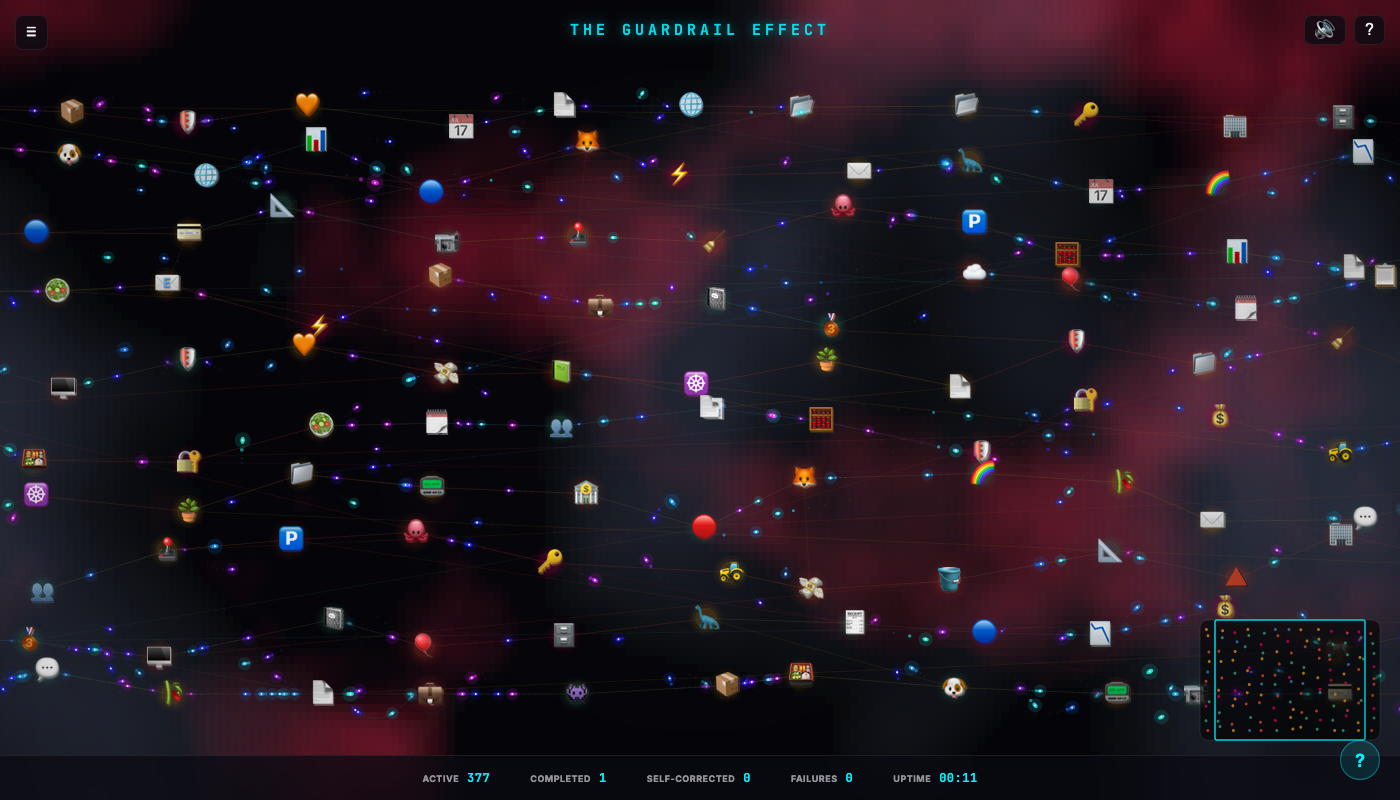
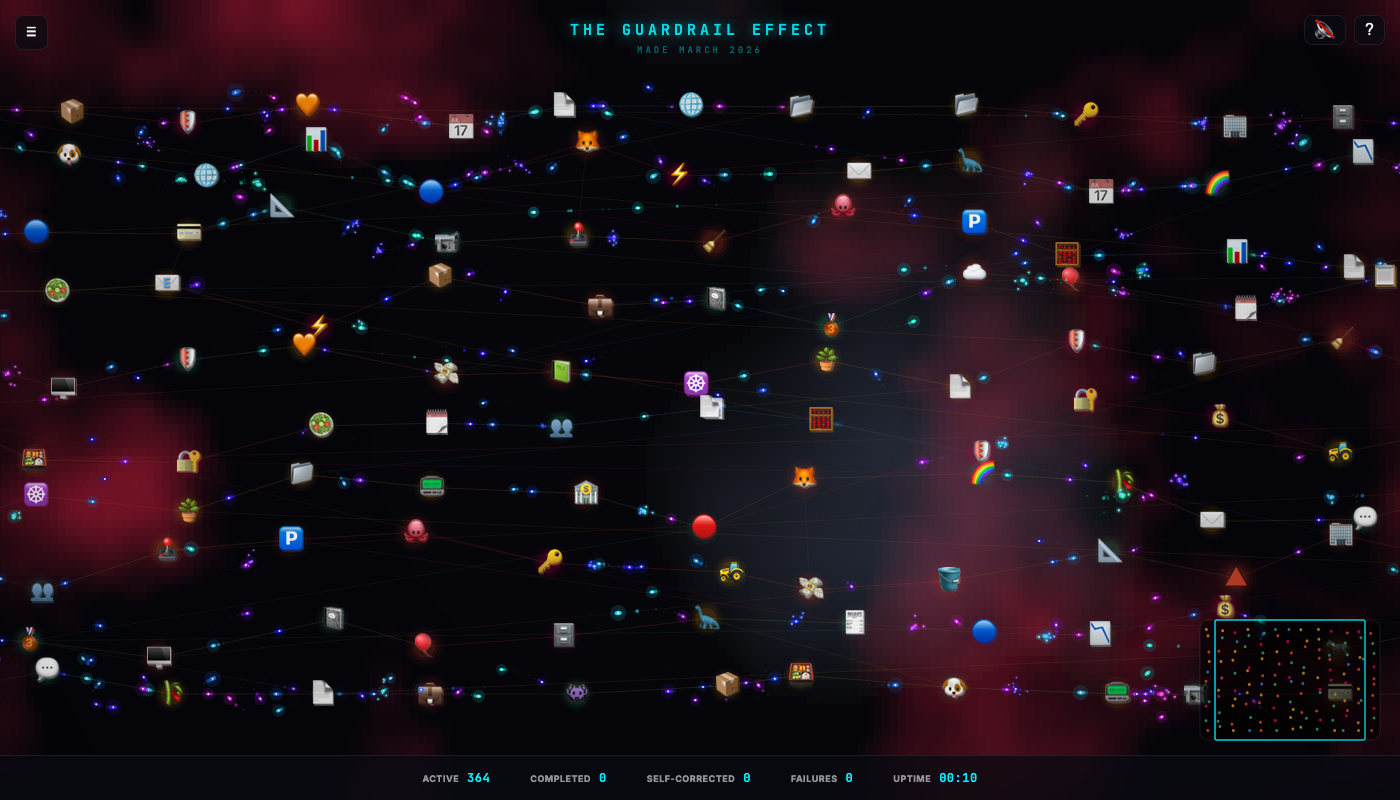
docs: update screenshot, tasks, session log; park fleet idea

diff --git a/plans/self-healing-fleet.md b/plans/self-healing-fleet.md
@@ -1,0 +1,71 @@
+# Plan: Pivot to "waiting for humans" — an agent fleet and its decision bottleneck
+
+Status: DRAFT v2 — awaiting answers on open questions (see bottom)
+
+## Concept
+
+Based on Spawn's "fleet" write-up. A company run by a fleet of agents that work on
+real products. Agents constantly hit **decisions of taste** ("add this setting?",
+"is this delightful?"). Those decisions either wait for **the human** (slow, sleeps,
+almost always right) or go to **judges** — AI approximations of the human (instant,
+right most of the time, sometimes wrong). Spawn's real numbers: judges decided 64%,
+sent back 19%, held 16% for a human; the CEO personally decided 27 times in 8 days.
+
+The piece shows: work piling up around a human bottleneck; judges releasing the flow;
+wrong calls leaving scars that the fleet notices and repairs.
+
+No switch. The piece plays as a looping sequence of acts with one caption each.
+
+## World
+
+- **Products** (3 clusters, petals around the centre). Each product has parts of three kinds:
+  - code (e.g. renderer, netcode, database, auth)
+  - customer-facing (e.g. signup, checkout, support chat, onboarding)
+  - ops (deploy, tests, monitoring, billing)
+- **Centre:** the Human (single bright node) ringed by 3 Judges.
+- **Agents:** particles doing work, travelling between parts of their product.
+
+## Simulation rules (pure TS, `src/simulation/`)
+
+- Worker arriving at a part: chance `questionRate` it needs a decision → travels to the centre.
+- Judge (when active): after ~0.3s → decide 64% / send back 19% (agent returns, retries
+  later) / escalate 16% to the human queue. Judge accuracy ~92%.
+- Human: one decision per `humanDecisionMs`; awake/asleep cycle; accuracy ~97%. Queue is FIFO.
+- Wrong decision: change ships with a latent defect → after a delay the part **scars**
+  (dark) → monitoring spawns a **repair burst** (~5 short-lived helper agents) → part heals
+  with a rainbow bloom.
+- Health (drives rainbow↔storm) = mix of fraction of agents not waiting + fraction of parts unscarred.
+
+## Acts (loop, ~40s each)
+
+1. **"Every decision waits for a human."** Judges off. Human sleeps partway → the queue
+   swells into a vortex around the centre, parts starve and dim, storm rolls in.
+2. **"Judges that think like you."** Judges appear; the queue drains; rainbow returns.
+   Occasional wrong calls scar a part; repair bursts heal it.
+3. **"No human at all."** Judges must also decide the questions they'd have held, at much
+   lower accuracy → scars arrive faster than repairs; colour drains.
+   End card: "In 8 days, Spawn's CEO decided 27 times."
+
+## Steps (tests first in each; `npm run check` after each)
+
+1. **Products + parts data/graph.** Test: each product builds, all parts reachable,
+   all three kinds present, layout in bounds. Replace connector data in `config.ts`/`scenarios.ts`.
+2. **Decision pipeline.** Test (unit + Monte Carlo): judge split ≈ 64/19/16; human
+   throughput capped; asleep → no decisions; queue grows when judges off; FIFO order.
+3. **Defects + repair.** Test: wrong call → scar after delay; scar → burst of N repair
+   agents; heal after repairers arrive; accuracy rates match config statistically.
+4. **Act director.** Test: timeline transitions, per-act config, loops.
+5. **Remove old:** guardrails, sound (`src/sound/`, Tone.js), unused controls; update/delete tests.
+6. **Rendering:** part glyphs (replace emoji), human + judges, queue vortex, scars,
+   repair sparks, heal bloom, health-driven background, captions.
+   Verify: Playwright screenshots per act, judged against `agents/quality-rubric.md`.
+7. **UI + e2e:** captions, stats (decided by judges / by human / wrong / waiting),
+   help text, e2e spec updated and run.
+8. **Ship:** README, docs, push → Netlify; confirm live bundle matches build.
+
+## Open questions
+
+- Acts (recommended) vs. steady state vs. a single "how much do judges decide" slider?
+- Which 3 products?
+- Replace emoji with abstract glyphs?
+- Name (TBC).

diff --git a/docs/session-log.md b/docs/session-log.md
@@ -212,3 +212,19 @@ The simulation now runs "smooth as butter" with a stabilized frame rate even at 
 
 ## Results
 The "Angry Storm" state is now much more atmospheric and visceral. The layered clouds provide a sense of scale and motion, while the pure red flashes clearly distinguish the high-risk state from the safer rainbow mode.
+
+## 2026-11-06 — CV readiness check + swarms
+
+**What was done:**
+- Verified live site (theguardraileffect.netlify.app) serves the latest build; GitHub README had a dead demo link and image — replaced with refreshed README + committed screenshot, added LICENSE.
+- Removed duplicate help button, added "made march 2026" subtitle.
+- Added subagent swarms (pure offset function in `simulation/swarm.ts` + renderer), tests first.
+- Stabilised Playwright e2e (workers: 1, `canvas.p5Canvas` locator). Note: e2e needs to run outside the sandbox (Chromium can't launch inside it).
+- Researched recent agent developments; brainstormed pivots (fleet/judges, stigmergy). Parked as future pieces.
+
+**What's next:**
+- Nothing required. Optional: new piece based on parked ideas in `docs/tasks.md`.
+
+**Decisions:**
+- Keep the guardrail theme for this piece; it's dated as a March 2026 snapshot rather than reworked.
+- Visual work done directly, not via Gemini.

diff --git a/docs/tasks.md b/docs/tasks.md
@@ -2,6 +2,16 @@
 
 *(Note: Tasks from Phase 0 to Phase 9 have been completed and archived. See [docs/archive/completed-tasks.md](archive/completed-tasks.md) for history.)*
 
+## Phase 19: CV Finish & Swarms ✅ DONE
+- [x] README refreshed (working demo link, local screenshot), MIT LICENSE added
+- [x] Removed duplicate floating help button; added "made march 2026" date line
+- [x] E2E stabilised (serial workers, main-canvas locator) + test for single help button
+- [x] Subagent swarms: ~15% of agents travel with 4–9 helper subagents that orbit, spread mid-edge and converge at nodes (`src/simulation/swarm.ts`, tested)
+
+## Future ideas (parked)
+- **The Fleet / waiting for humans** — agent fleet with a human decision bottleneck and AI judges, told in acts. Draft in `plans/self-healing-fleet.md`. Parked: effectively a new piece.
+- **Stigmergy** — agents coordinating through the world vs. n² chatter. Possible separate piece.
+
 ## Phase 18: Help & Failures Expansion ✅ DONE
 - [x] **Help Page Overhaul**: Added detailed Guardrails explanation and Stripe-based example.
 - [x] **Status Guide**: Updated colors/labels to match T1-T4 failure tiers and particle hues.

diff --git a/README.md b/README.md
@@ -12,6 +12,8 @@ Toggle guardrails ON, and the chaos stops. Force fields appear around dangerous 
 
 ## How It Works
 
+Some agents travel alone; others move as small swarms of helper subagents that spread out between tools and converge as they arrive.
+
 Each tool connector has a calibrated risk level and failure probability. Particles traverse the graph, and at each node a probability roll determines the outcome — from self-correcting retries (yellow flash) up to catastrophic explosions with screen shake and alarms.
 
 Guardrails completely block catastrophic events and reduce severe failures by ~95%, with visible green shields and intercept messages like "blocked: requires human approval."
